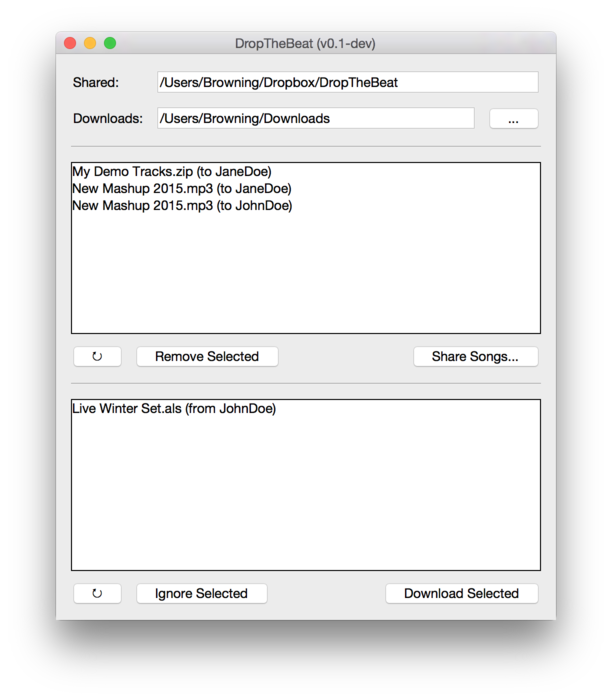
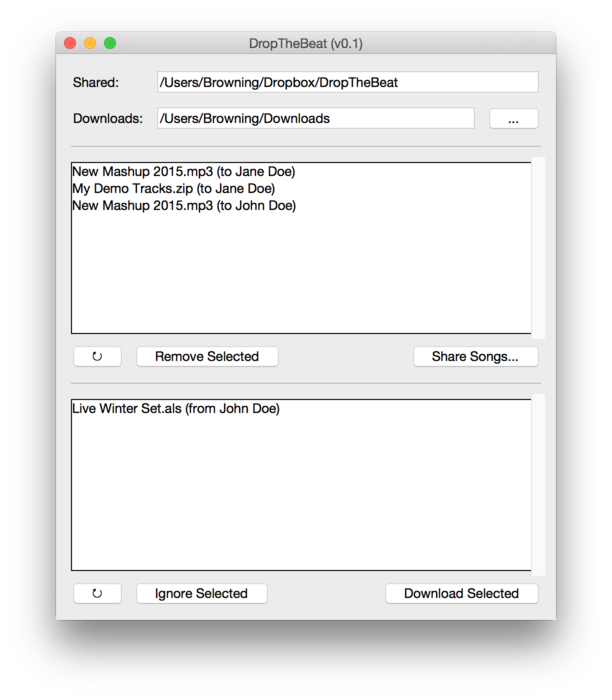
Release v0.1

diff --git a/dtb/__init__.py b/dtb/__init__.py
@@ -1,7 +1,7 @@
 """Package for DropTheBeat."""
 
 __project__ = 'DropTheBeat'
-__version__ = '0.1-dev'
+__version__ = '0.1'
 
 CLI = 'dtb'
 GUI = __project__

diff --git a/CHANGES.md b/CHANGES.md
@@ -1,10 +1,12 @@
 Changelog
 =========
 
-0.1 (dev)
----------
+0.1 (2015/01/20)
+----------------
 
-- Added scrollbars
+- Added the sharing location to the GUI
+- Added scrollbars to the GUI
+- Bug fixes
 
 0.0.6 (2014/01/25)
 ------------------
